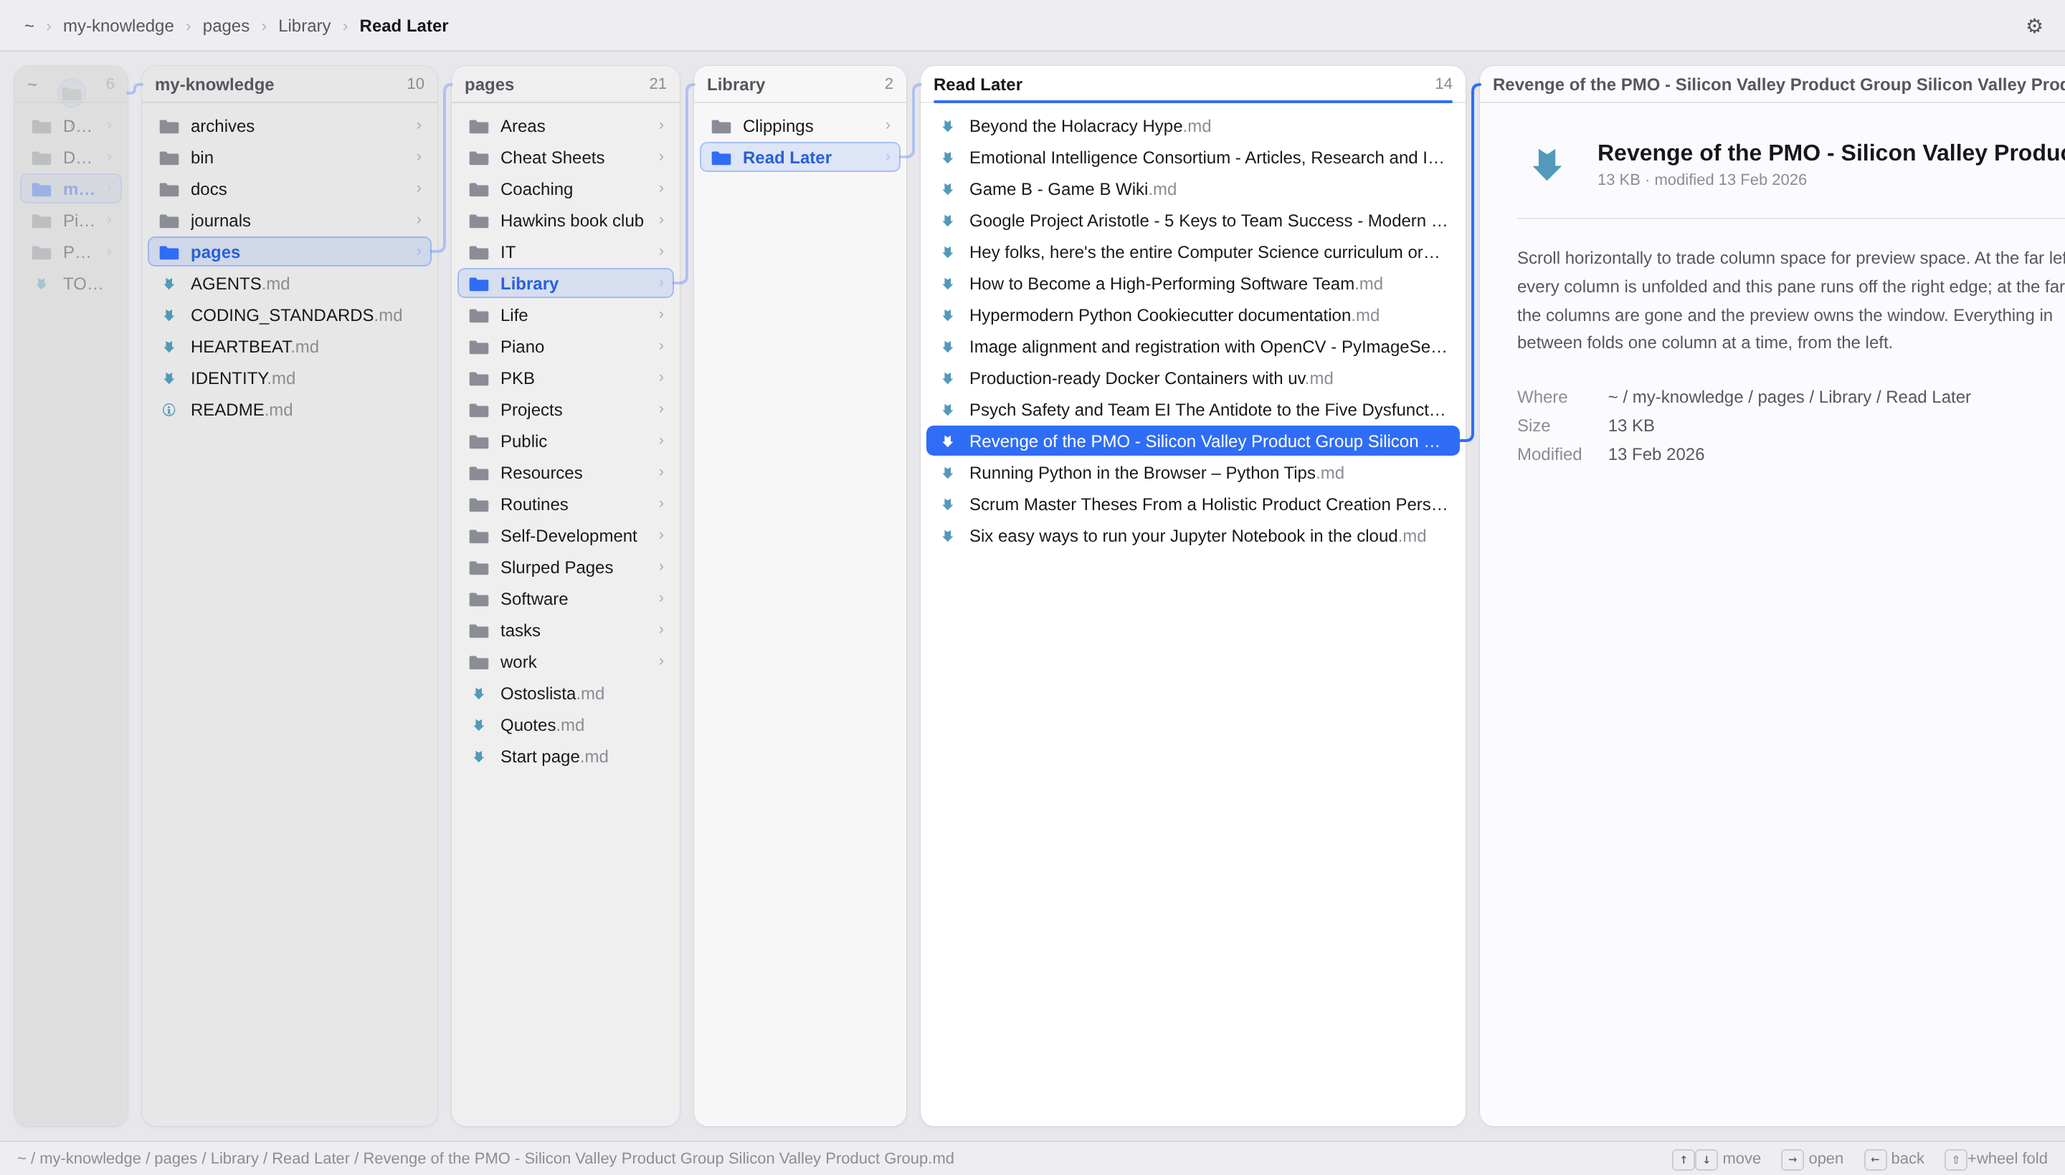
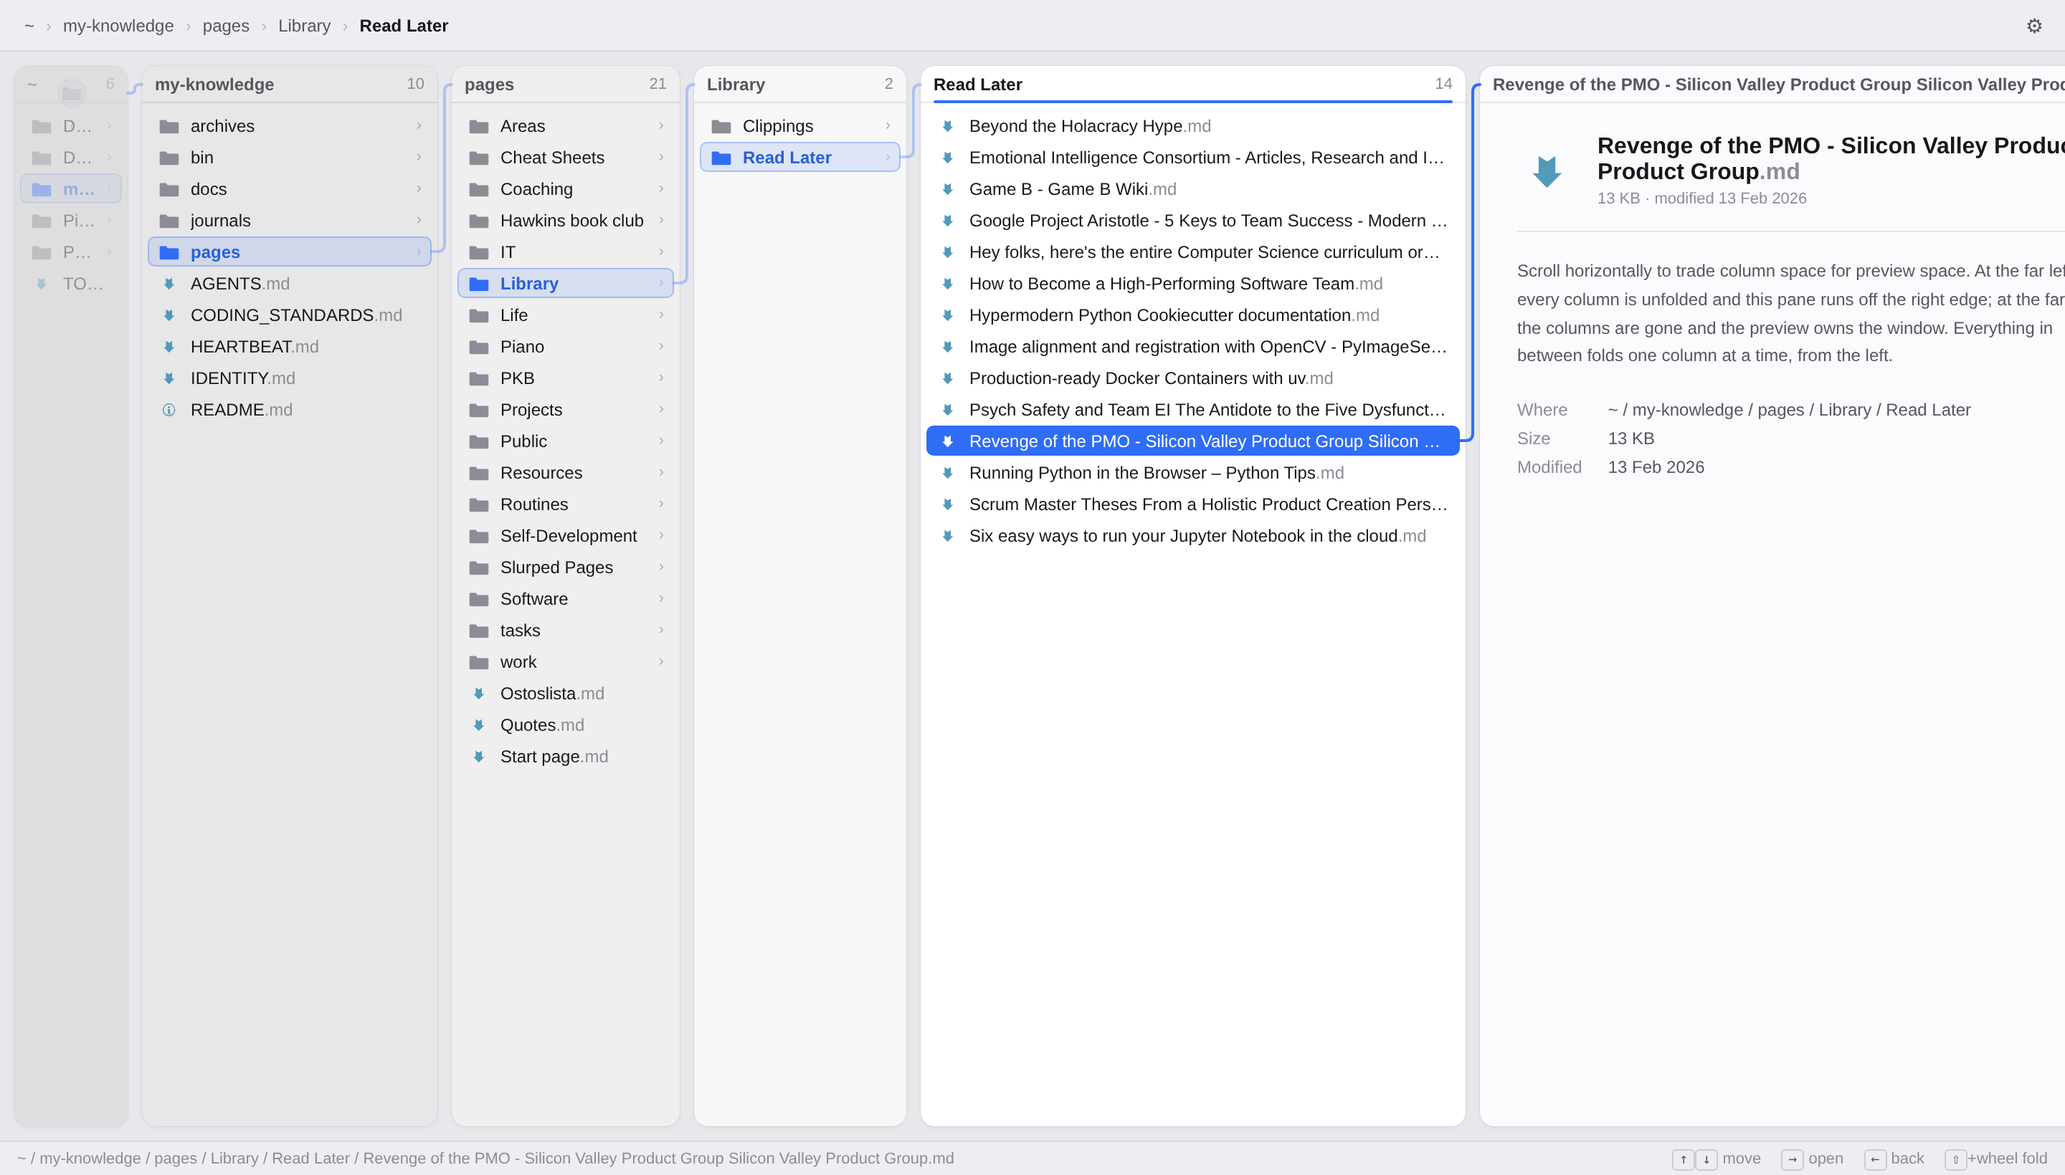
design(miller): survive scrolled columns, narrow windows and long titles
Four bugs the real-vault data and a phone viewport exposed:

- scrollIntoView() scrolls every scrollable ancestor, so revealing a selected
  row silently moved #finder's scrollLeft — which *is* the condensing dial. It
  now sets the column body's scrollTop directly, and #stage uses overflow:clip
  so it can never be scrolled out from under the layout either.
- #strip is max-content sized, so an unbroken 80-character title inflated the
  preview to 750px inside a 430px window. #preview now has a definite width and
  grows only into space the folded columns give back.
- A trail segment whose row had scrolled out of its column was dropped, breaking
  the chain. It is now clamped to the column edge and capped with a caret
  pointing the way the row went; rendering also reveals each selection.
- On a narrow window the default dial position could not fit the preview at all.
  It now goes to 100%, which makes the dial double as the phone layout: the
  document owns the screen, scroll left to bring the columns back.

Also: theme defaults to prefers-color-scheme, settings persist to localStorage,
rows carry role/aria-selected, status hints hide under 720px, and .geojson/.vtt
get icons.

Changed region(s): [[0.7188, 0.2177, 1.0, 0.4043], [0.75, 0.0933, 1.0, 0.1866]]

diff --git a/design/miller-columns.html b/design/miller-columns.html
@@ -1,5 +1,5 @@
 <!DOCTYPE html>
-<html lang="en" data-theme="light" data-density="compact">
+<html lang="en" data-density="compact">
 <head>
 <meta charset="utf-8">
 <title>Pykoclaw — Miller Columns design study</title>
@@ -151,7 +151,8 @@ body {
 #rail { height: 100%; }
 #stage {
   position: sticky; left: 0; height: 100%;
-  width: var(--stage-w, 100%); overflow: hidden;
+  width: var(--stage-w, 100%);
+  overflow: clip;   /* clip, not hidden: never becomes a scrollable container */
 }
 #strip {
   display: flex; align-items: stretch; height: 100%; gap: var(--gutter);
@@ -168,6 +169,8 @@ body {
 }
 #trail path { fill: none; stroke: var(--accent); stroke-width: 2; stroke-linecap: round; }
 #trail path.thread { stroke: var(--accent-soft); }
+/* marks an elbow whose row is scrolled out of its column: which way it went */
+#trail path.caret { stroke-width: 1.6; stroke-linejoin: round; }
 
 /* ── A column ──────────────────────────────────────────────────────────── */
 .col {
@@ -314,7 +317,9 @@ body {
 /* ── Preview pane ──────────────────────────────────────────────────────── */
 /* grow into spare space, never shrink below the target reading width */
 #preview {
-  flex: 1 0 var(--preview-w, 520px); border-radius: 10px;
+  /* definite width so an unbroken title can't inflate #strip's max-content;
+     flex-grow still hands it every pixel the folded columns give back */
+  width: var(--preview-w, 520px); flex: 1 0 auto; border-radius: 10px;
   background: var(--surface-2); box-shadow: var(--shadow-col);
   display: flex; flex-direction: column; min-height: 0; overflow: hidden;
 }
@@ -326,7 +331,11 @@ body {
 .pv-hero .ico { width: 42px; height: 42px; flex-basis: 42px; }
 .pv-hero .ico.seti { font-size: 38px; }
 .pv-hero .ico.dir svg { width: 38px; height: 38px; }
-.pv-hero h2 { margin: 0 0 3px; font-size: 16px; font-weight: 600; }
+.pv-hero h2 {
+  margin: 0 0 3px; font-size: 16px; font-weight: 600;
+  overflow-wrap: anywhere;   /* vault titles run to 80+ characters */
+}
+.meta dd, .pv-body p { overflow-wrap: anywhere; }
 .pv-hero .sub { color: var(--ink-3); font-size: var(--fs-meta); }
 .pv-body p { color: var(--ink-2); line-height: 1.65; max-width: 62ch; }
 .pv-body code { font-family: var(--mono); font-size: 12px;
@@ -353,6 +362,9 @@ body {
   border: 1px solid var(--hairline-2); color: var(--ink-2);
 }
 #st-fold { color: var(--ink-2); }
+#status span { white-space: nowrap; }
+#st-path { overflow: hidden; text-overflow: ellipsis; }
+@media (max-width: 720px) { #status .hint { display: none; } }
 </style>
 </head>
 <body>
@@ -371,7 +383,8 @@ body {
     </div>
   </div>
 
-  <div id="finder">
+  <div id="finder" role="group"
+       aria-label="Columns — scroll horizontally to fold or unfold">
     <div id="rail">
       <div id="stage">
         <svg id="trail"></svg>
@@ -384,10 +397,10 @@ body {
     <span id="st-path"></span>
     <div class="spacer"></div>
     <span id="st-fold"></span>
-    <span><kbd>↑</kbd><kbd>↓</kbd> move</span>
-    <span><kbd>→</kbd> open</span>
-    <span><kbd>←</kbd> back</span>
-    <span><kbd>⇧</kbd>+wheel fold</span>
+    <span class="hint"><kbd>↑</kbd><kbd>↓</kbd> move</span>
+    <span class="hint"><kbd>→</kbd> open</span>
+    <span class="hint"><kbd>←</kbd> back</span>
+    <span class="hint"><kbd>⇧</kbd>+wheel fold</span>
   </div>
 </div>
 
@@ -570,7 +583,8 @@ const TREE = d("~", [
    ═══════════════════════════════════════════════════════════════════════════ */
 /* Seti has glyphs for these but mapping.less never binds them to an extension. */
 const SUPP = { nix: ["e019","#519aba"], db: ["e022","#dd4b78"], sqlite: ["e022","#dd4b78"],
-               lock: ["e05d","#7fae42"], desktop: ["e019","#6d8086"] };
+               lock: ["e05d","#7fae42"], desktop: ["e019","#6d8086"],
+               geojson: ["e055","#b7b73b"], vtt: ["e023","#bfc2c1"] };
 const FOLDER_SVG =
   '<svg viewBox="0 0 16 16"><path d="M1.4 3.2h4.1l1.3 1.7h7.8c.6 0 1 .4 1 1v7c0 .6-.4 1-1 1H1.4c-.6 0-1-.4-1-1V4.2c0-.6.4-1 1-1z"/></svg>';
 
@@ -586,6 +600,8 @@ function iconHTML(node) {
    State
    ═══════════════════════════════════════════════════════════════════════════ */
 const root    = document.documentElement;
+root.dataset.theme =
+  matchMedia("(prefers-color-scheme: dark)").matches ? "dark" : "light";
 const finder  = document.getElementById("finder");
 const rail    = document.getElementById("rail");
 const stage   = document.getElementById("stage");
@@ -608,6 +624,17 @@ const visibleKids = node =>
   (node.kids || []).filter(k => state.dotfiles || !k.name.startsWith("."))
     .sort((a,b) => (!!b.dir - !!a.dir) || a.name.localeCompare(b.name, undefined, {numeric:true}));
 
+/* Bring a row into view within its own column, touching nothing else.
+   scrollIntoView() would also scroll #stage and #finder — and #finder's
+   scrollLeft is the condensing dial, so it would silently move the fold. */
+function revealRow(body, row) {
+  if (!row) return;
+  const top = row.offsetTop, h = row.offsetHeight;
+  if (top < body.scrollTop) body.scrollTop = top - 4;
+  else if (top + h > body.scrollTop + body.clientHeight)
+    body.scrollTop = top + h - body.clientHeight + 4;
+}
+
 const splitName = name => {
   const i = name.lastIndexOf(".");
   return (i > 0) ? [name.slice(0,i), name.slice(i)] : [name, ""];
@@ -620,9 +647,12 @@ const previewNode = () => {
 };
 
 /* target reading width for the preview — the thing scrolling tries to protect */
-const previewTarget = () => previewNode()
-  ? Math.min(760, Math.max(420, Math.round(stage.clientWidth * 0.45)))
-  : 300;
+const previewTarget = () => {
+  const w = finder.clientWidth - 2 * GUTTER();
+  return Math.min(w, previewNode()
+    ? Math.min(760, Math.max(420, Math.round(w * 0.45)))
+    : 300);
+};
 
 function measure(node) {
   /* content-driven width, clamped — no manual resizing, no wasted space */
@@ -659,7 +689,7 @@ function render(keepScroll) {
         <span class="name"><span>${node.name}</span></span>
         <span class="count">${kids.length}</span>
       </div>
-      <div class="col-body"></div>
+      <div class="col-body" role="listbox" aria-label="${node.name}"></div>
       <div class="spine-label" title="${node.name} — click to unfold">
         <span class="dot">${chosen ? iconHTML(chosen) : ""}</span>
         <span class="txt">${node.name}</span>
@@ -674,6 +704,8 @@ function render(keepScroll) {
         + (k.name.startsWith(".") ? " dotfile" : "")
         + (i === focusCol && cursor[i] === ri ? " cursor" : "");
       row.title = k.name;   /* the full name is always one hover away */
+      row.setAttribute("role", "option");
+      row.setAttribute("aria-selected", String(sel[i] === k.name));
       row.innerHTML = iconHTML(k)
         + `<span class="label">${stem}<span class="dim">${ext}</span></span>`
         + (k.dir ? `<span class="chev">›</span>` : "");
@@ -684,6 +716,7 @@ function render(keepScroll) {
 
     strip.appendChild(col);
     col.classList.toggle("scrollable-down", body.scrollHeight > body.clientHeight + 4);
+    revealRow(body, col.querySelector(".row.sel"));
   });
 
   strip.appendChild(renderPreview());
@@ -749,7 +782,10 @@ function layout(keepScroll) {
     /* default: the least folding that still gives the preview its full width */
     let k = 0;
     while (k < path.length && stripSpan(k) + previewTarget() > stageW) k++;
-    finder.scrollLeft = Math.round(k * foldUnit() * range());
+    /* on a phone even every column folded is too much — go all the way to 100%,
+       where the spine strip slides off and the preview owns the window */
+    const p = (stripSpan(k) + previewTarget() > stageW) ? 1 : k * foldUnit();
+    finder.scrollLeft = Math.round(p * range());
   }
   applyScroll();
 }
@@ -811,18 +847,23 @@ function paintTrail() {
     const cr = col.getBoundingClientRect(), nr = next.getBoundingClientRect();
 
     /* start: right edge of the selected pill, or the spine's icon when folded */
-    let x1, y1;
+    let x1, y1, off = 0;
     if (asSpine(col)) {
       const dot = col.querySelector(".dot").getBoundingClientRect();
       x1 = cr.right - fr.left; y1 = dot.top + dot.height / 2 - fr.top;
+      if (x1 <= 0) return;   /* this spine has slid off the left edge */
     } else {
       const selRow = col.querySelector(".row.sel");
       if (!selRow) return;
       const rr = selRow.getBoundingClientRect();
       const br = col.querySelector(".col-body").getBoundingClientRect();
-      const cy = rr.top + rr.height / 2;
-      if (cy < br.top + 2 || cy > br.bottom - 2) return;   /* scrolled out of view */
-      x1 = rr.right - fr.left; y1 = cy - fr.top;
+      let cy = rr.top + rr.height / 2;
+      /* If the row is scrolled out of its own column, clamp the elbow to the
+         edge and flag which way it went, rather than dropping the segment —
+         a broken chain is worse than an approximate one. */
+      if      (cy < br.top    + 7) { cy = br.top    + 7; off = -1; }
+      else if (cy > br.bottom - 7) { cy = br.bottom - 7; off =  1; }
+      x1 = (off ? cr.right - 5 : rr.right) - fr.left; y1 = cy - fr.top;
     }
     if (x1 < 0) return;   /* origin has slid off the left edge — no dangling hook */
 
@@ -842,7 +883,11 @@ function paintTrail() {
       : `M${x1},${y1} L${mx - r},${y1} Q${mx},${y1} ${mx},${y1 + s*r}` +
         ` L${mx},${y2 - s*r} Q${mx},${y2} ${mx + r},${y2} L${x2},${y2}`;
 
-    out += `<path class="${+col.dataset.i === focusCol ? "" : "thread"}" d="${dp}"/>`;
+    const cls = +col.dataset.i === focusCol ? "" : "thread";
+    out += `<path class="${cls}" d="${dp}"/>`;
+    /* apex points toward the row: off = -1 above the view, +1 below */
+    if (off) out += `<path class="${cls} caret" d="M${x1-4},${y1-off*3} `
+                  + `L${x1},${y1+off*4} L${x1+4},${y1-off*3}"/>`;
   });
   trail.innerHTML = out;
 }
@@ -893,8 +938,8 @@ document.addEventListener("keydown", e => {
     e.preventDefault();
     ci = Math.max(0, Math.min(rows.length - 1, ci + (e.key === "ArrowDown" ? 1 : -1)));
     rows[ci].click();
-    strip.querySelector(`.col[data-i="${focusCol}"] .row.cursor`)
-      ?.scrollIntoView({ block: "nearest" });
+    const fc = strip.querySelector(`.col[data-i="${focusCol}"]`);
+    revealRow(fc.querySelector(".col-body"), fc.querySelector(".row.cursor"));
   } else if (e.key === "ArrowRight" || e.key === "Enter") {
     e.preventDefault();
     const nxt = strip.querySelector(`.col[data-i="${focusCol + 1}"]`);
@@ -920,10 +965,20 @@ gear.onclick = e => {
 };
 document.addEventListener("click", e => { if (!panel.contains(e.target)) closeSettings(); });
 
+const PREFS = "pykoclaw_miller_prefs";
+const saved = JSON.parse(localStorage.getItem(PREFS) || "{}");
+if ("dotfiles" in saved) state.dotfiles      = saved.dotfiles;
+if ("density"  in saved) root.dataset.density = saved.density;
+if ("theme"    in saved) root.dataset.theme   = saved.theme;
+
+const savePrefs = () => localStorage.setItem(PREFS, JSON.stringify({
+  dotfiles: state.dotfiles, density: root.dataset.density, theme: root.dataset.theme }));
+
 const toggle = (id, get, set) => {
   const b = document.getElementById(id);
-  b.onclick = () => { set(!get()); b.setAttribute("aria-checked", String(get())); render(true); };
-  b.setAttribute("aria-checked", String(get()));
+  const sync = () => b.setAttribute("aria-checked", String(get()));
+  b.onclick = () => { set(!get()); sync(); savePrefs(); render(true); };
+  sync();
 };
 toggle("s-dot",     () => state.dotfiles,                    v => state.dotfiles = v);
 toggle("s-density", () => root.dataset.density === "compact",

diff --git a/design/README.md b/design/README.md
@@ -61,7 +61,15 @@ Mechanically: `#finder` scrolls, `#rail` supplies the scroll range, and `#stage`
 number. That gives native scrollbar, trackpad and `⇧`+wheel support for free.
 Clicking a spine scrolls back just far enough to unfold it.
 
-### 2. The trail is drawn, not inferred
+### 2. The same dial is the phone layout
+
+No separate mobile mode. On a narrow window the "least folding that fits the
+preview" answer is *all of it*, so the dial opens at 100%: the columns are gone
+and the document owns the screen, with the path in the breadcrumb. Scroll left
+and the columns come back one at a time. The desktop behaviour and the phone
+behaviour are the same mechanism at different window widths.
+
+### 3. The trail is drawn, not inferred
 
 An accent elbow leaves the selected row and lands on the *next column's header* —
 solid from the focused column, a soft thread for the rest. Its vertical run sits on
@@ -72,7 +80,13 @@ brackets, but terminating on a **labelled header** instead of a bare column edge
 so the connector doesn't just point, it names its destination. When a column is
 folded, the elbow runs to its spine icon instead, so the trail survives condensing.
 
-### 3. Three selection states, all legible
+If a selected row is scrolled out of its own column, the elbow is **clamped to the
+column edge and capped with a caret** pointing the way the row went, rather than
+dropped. A missing link reads as "there is no path here", which is worse than an
+approximate one. Rendering also reveals each column's selection, so the chain
+starts out whole.
+
+### 4. Three selection states, all legible
 
 Finder has two (blue / grey), and the grey one is nearly invisible. Ours:
 
@@ -82,25 +96,25 @@ Finder has two (blue / grey), and the grey one is nearly invisible. Ours:
 | Ancestor | accent-tinted pill, accent border, accent text | "the trail you walked" |
 | Descendant | dashed hairline outline, no fill | "remembered, not active" |
 
-### 4. Depth is expressed as light
+### 5. Depth is expressed as light
 
 Each column left of the focus recedes ~3% toward the window chrome. The focused
 column is the only pure-white surface on screen. You can find your place with
 peripheral vision, before reading anything.
 
-### 5. Column headers
+### 6. Column headers
 
 Sticky, with the folder name and a live item count. The focused column's header
 carries a 2px accent underline. Costs 26px of vertical space and removes the
 "which folder is this?" question permanently.
 
-### 6. Spines keep folded ancestors on screen
+### 7. Spines keep folded ancestors on screen
 
 A folded column is a 34px strip: the folder name set vertically, plus the icon of
 the child that was chosen there. Six levels deep in a 1000px window you still see
 the whole path. Click one to unfold it.
 
-### 7. Seti icons
+### 8. Seti icons
 
 Files use the **Seti UI** icon font — the one VS Code ships as its "Seti" file icon
 theme. MIT, one 37 KB `.woff`, no per-icon requests, and it comes with an existing
@@ -123,7 +137,7 @@ that inherits the row's colour, so folders read as structure and files read as
 content. A short `SUPP` table in the prototype covers five extensions Seti has
 glyphs for but never bound (`.nix`, `.db`, `.sqlite`, `.lock`, `.desktop`).
 
-### 8. Quieter chrome
+### 9. Quieter chrome
 
 - No hard column separators. Columns are rounded cards floating on the chrome;
   separation comes from tone and a hairline shadow, not from lines.
@@ -132,8 +146,10 @@ glyphs for but never bound (`.nix`, `.db`, `.sqlite`, `.lock`, `.desktop`).
 - Bottom scroll fade when a column overflows, so a cut-off list looks cut off.
 - Keyboard cursor is a focus ring *independent* of selection, so arrowing through
   a column without committing is visible.
-- Real dark theme. All colour derives from `--accent` and a few ink levels via
-  `color-mix()`; theming is a token swap.
+- Real dark theme, defaulting to `prefers-color-scheme`. All colour derives from
+  `--accent` and a few ink levels via `color-mix()`; theming is a token swap.
+- Rows carry `role="option"` / `aria-selected`, columns `role="listbox"`, so the
+  structure is not carried by colour alone. Settings persist to `localStorage`.
 
 ## What it would take to build
 
@@ -146,13 +162,20 @@ glyphs for but never bound (`.nix`, `.db`, `.sqlite`, `.lock`, `.desktop`).
 | Trail overlay | ~50 lines JS, repaints on render / column scroll / dial | `styles.py` JS block |
 | Settings popover | small | `columns.py` (`render_breadcrumb`) + CSS |
 
-Two caveats for the real implementation:
+Four caveats for the real implementation, each of which cost a bug here:
 
 - **Do not transition column width.** Folding tracks the scroll 1:1; a CSS
   transition makes the trail paint against stale geometry. Interpolating width
   directly from `scrollLeft` is fine — that is the opposite of animating it.
-- The trail must repaint on column body scroll as well as on the dial, and skip any
-  segment whose origin has scrolled out of its column body or off the left edge.
+- **Never call `scrollIntoView()`.** It scrolls *every* scrollable ancestor, which
+  here means `#finder` — whose `scrollLeft` is the dial. Revealing a row silently
+  moved the fold. Set the column body's `scrollTop` directly instead.
+- **`#stage` needs `overflow: clip`, not `hidden`.** `hidden` makes it a scroll
+  container that other code can scroll out from under you; `clip` cannot scroll.
+- **Give `#preview` a definite width.** `#strip` is `max-content`, so with a
+  content-derived width an unbroken 80-character title inflated the pane to 750px
+  inside a 430px window. `width: var(--preview-w); flex: 1 0 auto` contributes
+  exactly the target and still grows into space the folded columns give back.
 
 ## Test data
 
@@ -180,6 +203,9 @@ untruncated name.
 | `06-scroll-100.png` | dial at 100% — preview alone |
 | `07-deep-finnish.png` | six levels into `pages/Life/Koivusyrjän pihan hoito/assets` |
 | `08-dark.png` | dark theme |
+| `09-trail-clamped.png` | short window, ancestor columns scrolled — trail clamps and carets instead of breaking |
+| `10-narrow-default.png` | 430px phone: dial opens at 100%, document owns the screen |
+| `11-narrow-unfolded.png` | same phone scrolled to 0% — the columns are still all there |
 
 ## Open question
 
